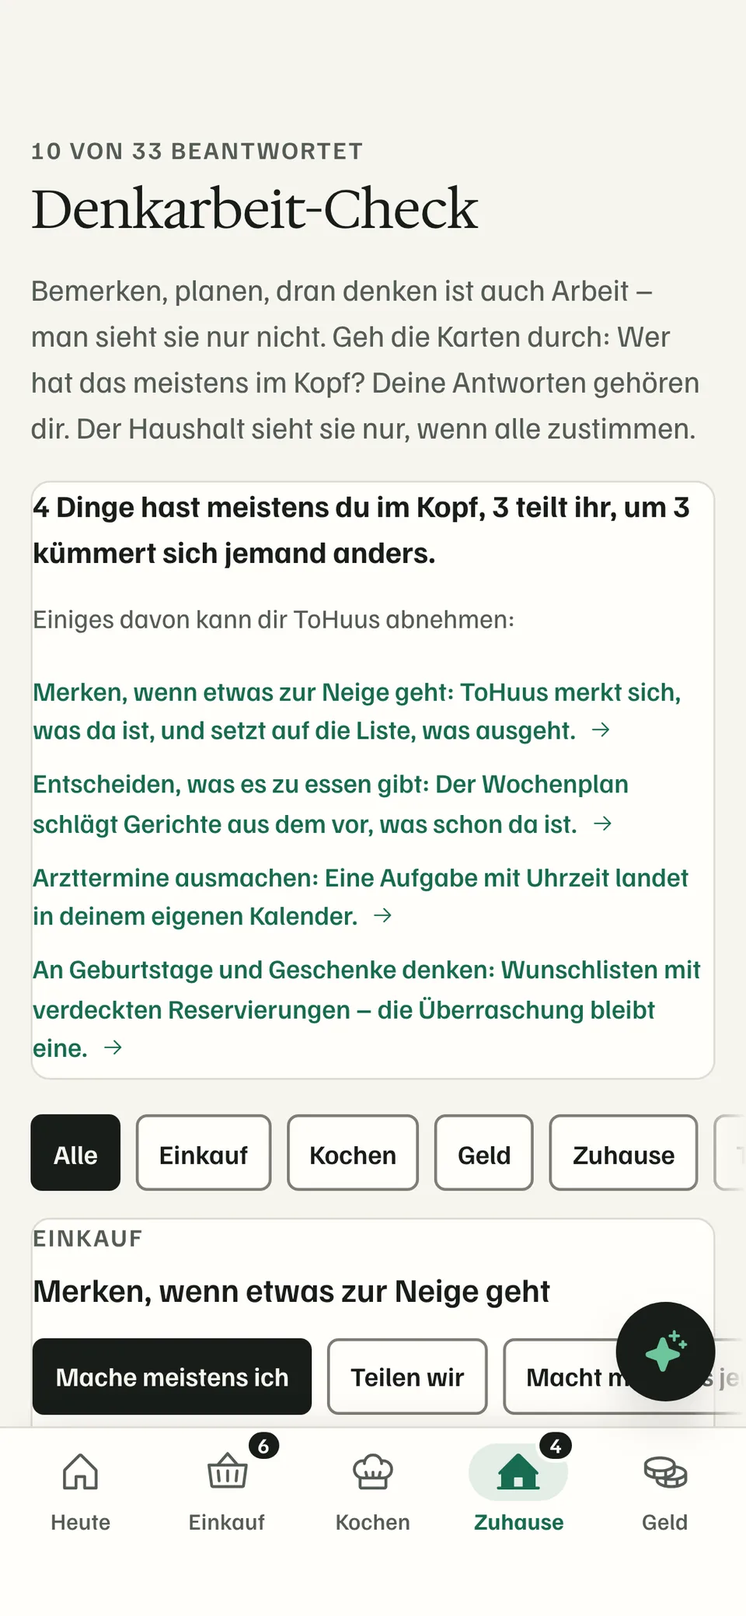
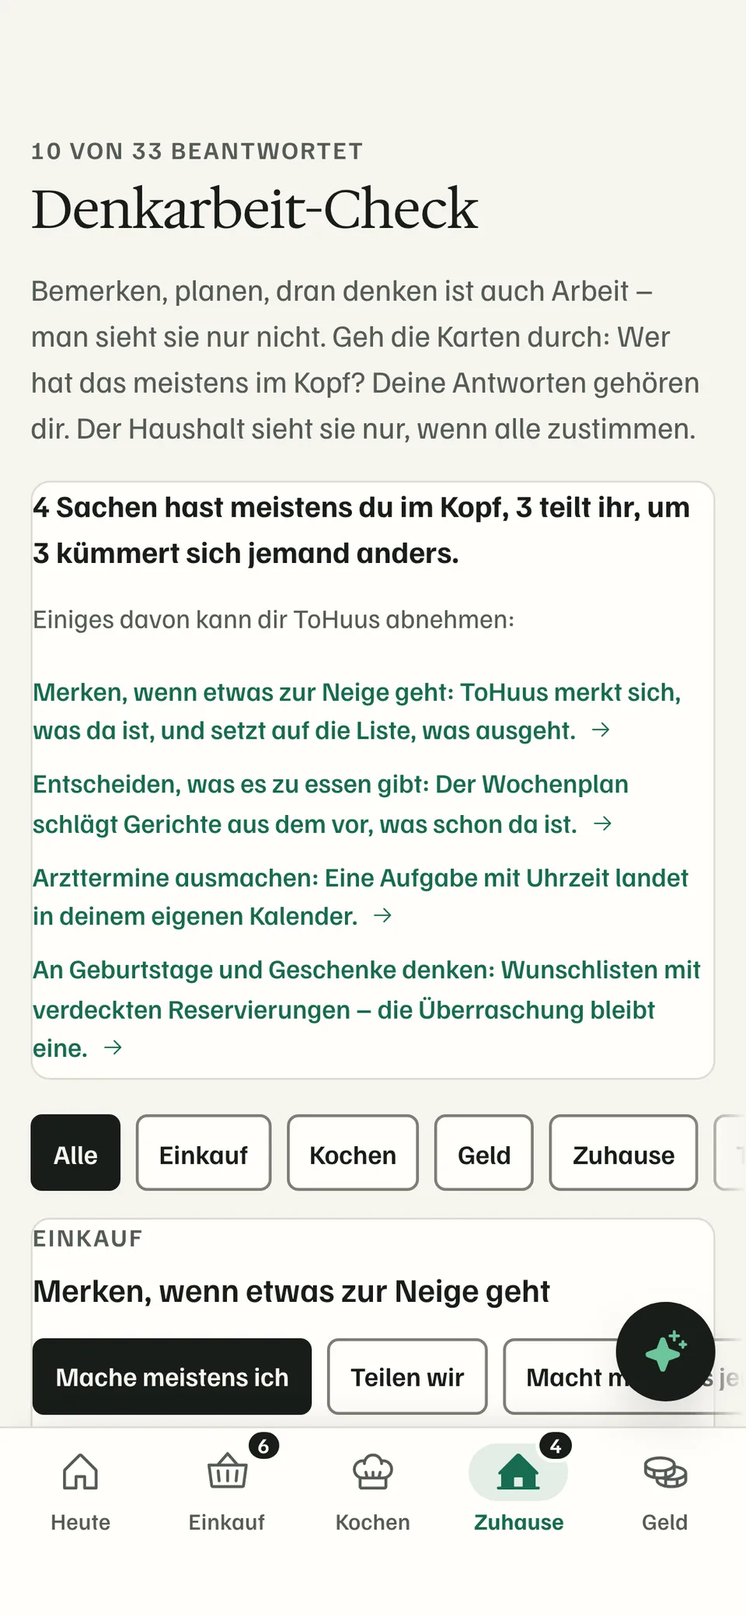
Copy: "Sache/Sachen" instead of "Ding/Dinge" everywhere (web, iOS, server, website, Ratgeber)
Countable things now read "1 Sache", "3 Sachen" – as "Bring mir was" already did.
Denkarbeit-Check screenshot re-taken; rule added to CLAUDE.md.

Claude-Session: https://claude.ai/code/session_01JiCpWFdknKAgdRL9Z1ENTb

Changed region(s): [[0.0312, 0.308, 0.9375, 0.3696]]

diff --git a/site/de/index.html b/site/de/index.html
@@ -214,7 +214,7 @@
         <p class="job-no"><span>3</span>Geld</p>
         <h3 id="geld-h">Ihr seht, wohin das Geld für Essen und Haushalt geht.</h3>
         <p>Jeder Bon zählt mit. ToHuus zeigt, was ein Monat gekostet hat, in welchem Laden und für welche Kategorie, und vergleicht mit dem Vormonat. Ein Haushaltsbuch müsst ihr dafür nicht führen.</p>
-        <ul class="ticks"><li><svg class="ico" aria-hidden="true" focusable="false"><use href="#i-check"/></svg><span>Ausgaben nach Monat, Laden und Kategorie</span></li><li><svg class="ico" aria-hidden="true" focusable="false"><use href="#i-check"/></svg><span>Preisänderungen bei Dingen, die ihr oft kauft</span></li><li><svg class="ico" aria-hidden="true" focusable="false"><use href="#i-check"/></svg><span>Budgets pro Woche, Monat oder Jahr, für alle oder nur für dich, mit Hinweis bei 80 Prozent</span></li><li><svg class="ico" aria-hidden="true" focusable="false"><use href="#i-check"/></svg><span>Export als CSV</span></li></ul>
+        <ul class="ticks"><li><svg class="ico" aria-hidden="true" focusable="false"><use href="#i-check"/></svg><span>Ausgaben nach Monat, Laden und Kategorie</span></li><li><svg class="ico" aria-hidden="true" focusable="false"><use href="#i-check"/></svg><span>Preisänderungen bei Sachen, die ihr oft kauft</span></li><li><svg class="ico" aria-hidden="true" focusable="false"><use href="#i-check"/></svg><span>Budgets pro Woche, Monat oder Jahr, für alle oder nur für dich, mit Hinweis bei 80 Prozent</span></li><li><svg class="ico" aria-hidden="true" focusable="false"><use href="#i-check"/></svg><span>Export als CSV</span></li></ul>
       </div>
       <div class="job-visual reveal">
         <span class="job-shape s3" aria-hidden="true"></span>
@@ -393,7 +393,7 @@
     <div class="sec-head">
       <p class="label reveal">Wenn der Kopf voll ist</p>
       <h2 class="reveal" id="nd-h">Für Köpfe, in denen viel los ist.</h2>
-      <p class="intro reveal">Mit ADHS, Autismus oder einfach in einer vollen Woche ist oft der Anfang das Schwerste: Wo fange ich an, was war noch mal dran, und wie lange dauert das überhaupt? Ein paar Dinge in ToHuus sind genau dafür gebaut. Sie helfen allen im Haushalt, und niemand muss erklären, warum.</p>
+      <p class="intro reveal">Mit ADHS, Autismus oder einfach in einer vollen Woche ist oft der Anfang das Schwerste: Wo fange ich an, was war noch mal dran, und wie lange dauert das überhaupt? Ein paar Sachen in ToHuus sind genau dafür gebaut. Sie helfen allen im Haushalt, und niemand muss erklären, warum.</p>
     </div>
     <figure class="house-visual nd-visual reveal">
       <div class="house-pair">
@@ -412,14 +412,14 @@
       <li class="reveal" style="--d:0ms"><span class="nd-ico"><svg class="ico" aria-hidden="true" focusable="false"><use href="#i-list"/></svg></span><b>Kleine Schritte</b><span>Jede Aufgabe lässt sich in kleine Schritte teilen, die du einzeln abhakst. „In kleine Schritte teilen“ schlägt welche vor: mit KI, wenn euer Haushalt das erlaubt, sonst aus fertigen Schritten für Bad putzen, Küche, Wäsche, Staubsaugen oder Bett beziehen. Ist die Aufgabe erledigt, stehen die Schritte beim nächsten Mal wieder offen da.</span></li>
       <li class="reveal" style="--d:50ms"><span class="nd-ico"><svg class="ico" aria-hidden="true" focusable="false"><use href="#i-target"/></svg></span><b>Eins nach dem anderen</b><span>Die Fokusansicht zeigt nur eine Sache: die nächste Aufgabe und darin den nächsten Schritt, groß und ohne Liste drumherum. Darunter stehen „Geschafft“, „Später“ und „Zu groß? Kleiner machen“.</span></li>
       <li class="reveal" style="--d:100ms"><span class="nd-ico"><svg class="ico" aria-hidden="true" focusable="false"><use href="#i-timer"/></svg></span><b>Sichtbarer Timer</b><span>Fünf Minuten, nur anfangen. Ein Ring zeigt, wie viel Zeit noch bleibt, am Ende kommt ein sanftes Signal. Gezählt oder ausgewertet wird dabei nichts.</span></li>
-      <li class="reveal" style="--d:150ms"><span class="nd-ico"><svg class="ico" aria-hidden="true" focusable="false"><use href="#i-feather"/></svg></span><b>Sanfter Modus</b><span>Eine Einstellung nur für dich: keine roten Warnungen und keine Zähler, was fällig ist, „wäre dran“. „Neu anfangen“ legt alles Überfällige auf einen frischen Start, ohne Vorwurf. Mitteilungen kommen gebündelt in einer Nachricht zu der Zeit, die du wählst, und auf Heute stehen höchstens drei Dinge.</span></li>
+      <li class="reveal" style="--d:150ms"><span class="nd-ico"><svg class="ico" aria-hidden="true" focusable="false"><use href="#i-feather"/></svg></span><b>Sanfter Modus</b><span>Eine Einstellung nur für dich: keine roten Warnungen und keine Zähler, was fällig ist, „wäre dran“. „Neu anfangen“ legt alles Überfällige auf einen frischen Start, ohne Vorwurf. Mitteilungen kommen gebündelt in einer Nachricht zu der Zeit, die du wählst, und auf Heute stehen höchstens drei Sachen.</span></li>
       <li class="reveal" style="--d:0ms"><span class="nd-ico"><svg class="ico" aria-hidden="true" focusable="false"><use href="#i-users"/></svg></span><b>Keine Punkte, keine Ranglisten</b><span>Es gibt keine Streaks, keine Punkte und keine Belohnungen. „Wer hat was im Blick“ zeigt Namen alphabetisch, Anteile nur, wenn alle im Haushalt zustimmen.</span></li>
       <li class="reveal" style="--d:50ms"><span class="nd-ico"><svg class="ico" aria-hidden="true" focusable="false"><use href="#i-list"/></svg></span><b>Denkarbeit-Check</b><span>33 Karten für die unsichtbare Arbeit, von „Merken, wenn etwas zur Neige geht“ bis „An Geburtstage denken“. Jede Person antwortet für sich, der Haushalt sieht die Antworten nur, wenn alle zustimmen. Zu jeder Karte steht, was ToHuus dir davon abnimmt.</span></li>
       <li class="reveal" style="--d:100ms"><span class="nd-ico"><svg class="ico" aria-hidden="true" focusable="false"><use href="#i-pin"/></svg></span><b>Aus den Augen, nicht aus dem Sinn</b><span>„Wo ist was?“ weiß, wo die Batterien liegen und was im Gefrierfach ist. Wer mag, führt einen Vorrat und sieht, was da ist und was bald alle ist.</span></li>
       <li class="reveal" style="--d:150ms"><span class="nd-ico"><svg class="ico" aria-hidden="true" focusable="false"><use href="#i-mic"/></svg></span><b>Schnell aus dem Kopf</b><span>Ein Tipp auf den Assistenten, ein Satz, und es steht auf der Liste oder bei den Aufgaben, bevor der Gedanke wieder weg ist.</span></li>
       <li class="reveal" style="--d:0ms"><span class="nd-ico"><svg class="ico" aria-hidden="true" focusable="false"><use href="#i-tag"/></svg></span><b>Extras im Wocheneinkauf</b><span>Ihr legt fest, wie viel pro Woche für Extras drin ist, als Betrag oder als Anzahl. Einträge auf der Liste markiert ihr als Extra, und die Liste zeigt, wie viel davon schon verplant ist. Gesperrt wird nichts, ihr behaltet nur den Überblick, auch bei spontanen Käufen.</span></li>
     </ul>
-    <p class="note reveal">ToHuus richtet sich nach „Bewegung reduzieren“ auf deinem Gerät, und an Tagen, an denen das Aufstehen schwerfällt, gibt es „Bring mir was“. ToHuus ist kein Gesundheits- oder Therapieangebot. Es nimmt euch nur ein paar Dinge aus dem Kopf.</p>
+    <p class="note reveal">ToHuus richtet sich nach „Bewegung reduzieren“ auf deinem Gerät, und an Tagen, an denen das Aufstehen schwerfällt, gibt es „Bring mir was“. ToHuus ist kein Gesundheits- oder Therapieangebot. Es nimmt euch nur ein paar Sachen aus dem Kopf.</p>
     <p class="more reveal"><a href="../hilfe/kopf-voll.html">Alles dazu in der Hilfe<svg class="ico" aria-hidden="true" focusable="false"><use href="#i-arrow"/></svg></a></p>
   </div>
 </section>

diff --git a/site/ratgeber/haushalt-mit-adhs.html b/site/ratgeber/haushalt-mit-adhs.html
@@ -112,11 +112,11 @@
     </section>
     <section id="ein-beispiel-sam-und-der-samstag" aria-labelledby="ein-beispiel-sam-und-der-samstag-h">
       <h2 id="ein-beispiel-sam-und-der-samstag-h">Ein Beispiel: Sam und der Samstag</h2>
-      <p>Sam fällt das Anfangen schwer, besonders bei großen Aufgaben. Samstags soll das Bad dran sein, und lange war das der Tag, an dem es nicht passierte. Jetzt hat Sam in ToHuus den sanften Modus an. Auf Heute stehen nur drei Dinge, und die Erinnerungen kommen gesammelt um zehn Uhr.</p><p>Um zehn öffnet Sam „Eins nach dem anderen“. Dort steht nur „Bad putzen“ und darunter der erste Schritt: „Spiegel abwischen“. Sam startet den Timer mit fünf Minuten. Danach tippt Sam auf „Geschafft“, der nächste Schritt ist das Waschbecken. Beim Boden ist die Luft raus, Sam tippt auf „Später“. Das Bad ist nicht perfekt, aber zu drei Vierteln sauber, und niemand im Haushalt sieht, dass Sam den sanften Modus nutzt.</p>
+      <p>Sam fällt das Anfangen schwer, besonders bei großen Aufgaben. Samstags soll das Bad dran sein, und lange war das der Tag, an dem es nicht passierte. Jetzt hat Sam in ToHuus den sanften Modus an. Auf Heute stehen nur drei Sachen, und die Erinnerungen kommen gesammelt um zehn Uhr.</p><p>Um zehn öffnet Sam „Eins nach dem anderen“. Dort steht nur „Bad putzen“ und darunter der erste Schritt: „Spiegel abwischen“. Sam startet den Timer mit fünf Minuten. Danach tippt Sam auf „Geschafft“, der nächste Schritt ist das Waschbecken. Beim Boden ist die Luft raus, Sam tippt auf „Später“. Das Bad ist nicht perfekt, aber zu drei Vierteln sauber, und niemand im Haushalt sieht, dass Sam den sanften Modus nutzt.</p>
     </section>
     <section id="so-hilft-tohuus-wenn-der-kopf-voll-ist" aria-labelledby="so-hilft-tohuus-wenn-der-kopf-voll-ist-h">
       <h2 id="so-hilft-tohuus-wenn-der-kopf-voll-ist-h">So hilft ToHuus, wenn der Kopf voll ist</h2>
-      <p>Unter Aufgaben gibt es dafür ein paar Werkzeuge, die allen im Haushalt offenstehen, ohne dass jemand erklären muss, warum er sie nutzt:</p><ul><li><b>Kleine Schritte</b>: Jede Aufgabe lässt sich in Schritte teilen. „In kleine Schritte teilen“ schlägt welche vor, mit KI, wenn euer Haushalt das erlaubt, sonst aus fertigen Schritten für häufige Aufgaben.</li><li><b>Eins nach dem anderen</b>: nur die nächste Aufgabe und darin der nächste Schritt, mit „Geschafft“, „Später“ und „Zu groß? Kleiner machen“.</li><li><b>Sichtbarer Timer</b>: 5, 10, 15 oder 25 Minuten, ein Ring und ein sanftes Signal am Ende. Gespeichert wird nichts.</li><li><b>Sanfter Modus</b>: kein Rot für Überfälliges, „wäre dran“ statt „überfällig“, wenige Dinge auf Heute, Erinnerungen gebündelt einmal am Tag.</li><li><b>Neu anfangen</b>: Überfälliges rückt auf einen frischen Start, zwei Aufgaben pro Tag. Nichts wird als verpasst festgehalten.</li></ul><p>Es gibt keine Streaks, keine Punkte und keine Statistik über dich. Deine Einstellungen sieht niemand sonst im Haushalt. ToHuus ist kein Gesundheits- oder Therapieangebot und ersetzt keine Beratung. Mehr dazu in der Hilfe unter <a href="../hilfe/kopf-voll.html">Wenn der Kopf voll ist</a>. ToHuus ist gerade in der Beta, einen TestFlight-Platz fragst du auf der <a href="../de/#testflight">Startseite</a> an.</p>
+      <p>Unter Aufgaben gibt es dafür ein paar Werkzeuge, die allen im Haushalt offenstehen, ohne dass jemand erklären muss, warum er sie nutzt:</p><ul><li><b>Kleine Schritte</b>: Jede Aufgabe lässt sich in Schritte teilen. „In kleine Schritte teilen“ schlägt welche vor, mit KI, wenn euer Haushalt das erlaubt, sonst aus fertigen Schritten für häufige Aufgaben.</li><li><b>Eins nach dem anderen</b>: nur die nächste Aufgabe und darin der nächste Schritt, mit „Geschafft“, „Später“ und „Zu groß? Kleiner machen“.</li><li><b>Sichtbarer Timer</b>: 5, 10, 15 oder 25 Minuten, ein Ring und ein sanftes Signal am Ende. Gespeichert wird nichts.</li><li><b>Sanfter Modus</b>: kein Rot für Überfälliges, „wäre dran“ statt „überfällig“, wenige Sachen auf Heute, Erinnerungen gebündelt einmal am Tag.</li><li><b>Neu anfangen</b>: Überfälliges rückt auf einen frischen Start, zwei Aufgaben pro Tag. Nichts wird als verpasst festgehalten.</li></ul><p>Es gibt keine Streaks, keine Punkte und keine Statistik über dich. Deine Einstellungen sieht niemand sonst im Haushalt. ToHuus ist kein Gesundheits- oder Therapieangebot und ersetzt keine Beratung. Mehr dazu in der Hilfe unter <a href="../hilfe/kopf-voll.html">Wenn der Kopf voll ist</a>. ToHuus ist gerade in der Beta, einen TestFlight-Platz fragst du auf der <a href="../de/#testflight">Startseite</a> an.</p>
     </section>
     <section id="fakten" aria-labelledby="fakten-h">
       <h2 id="fakten-h">Fakten zum Mitnehmen</h2>

diff --git a/site/ratgeber/mental-load-haushalt-fair-verteilen.html b/site/ratgeber/mental-load-haushalt-fair-verteilen.html
@@ -104,7 +104,7 @@
     </section>
     <section id="erst-sichtbar-machen-der-denkarbeit-check" aria-labelledby="erst-sichtbar-machen-der-denkarbeit-check-h">
       <h2 id="erst-sichtbar-machen-der-denkarbeit-check-h">Erst sichtbar machen: der Denkarbeit-Check</h2>
-      <p>Über Mental Load zu reden, ist schwer, solange er unsichtbar bleibt. Sätze wie „ich denke immer an alles“ klingen schnell nach Vorwurf, und „sag doch einfach, was ich machen soll“ verschiebt das Problem nur. Hilfreicher ist eine ruhige Bestandsaufnahme, Ding für Ding.</p><p>Genau dafür gibt es in ToHuus unter Aufgaben › Wer hat was im Blick den Denkarbeit-Check. Das sind 33 Karten in sieben Bereichen, von Einkauf und Kochen über Geld und Zuhause bis zu Terminen, Kindern und dem Miteinander. Auf jeder steht ein ganz konkretes Ding, etwa „Merken, wenn etwas zur Neige geht“, „Arzttermine ausmachen“, „Wasserfilter, Rauchmelder, Entkalken“ oder „Merken, wann Kleidung oder Schuhe zu klein sind“. Jede Person beantwortet jede Karte für sich, mit „Mache meistens ich“, „Teilen wir“, „Macht meistens jemand anders“ oder „Betrifft uns nicht“.</p><ul><li>Die Antworten gehören dir. Du siehst für dich, wie viele Dinge du meistens im Kopf hast, wie viele ihr teilt und um wie viele sich jemand anders kümmert.</li><li>Der Haushalt sieht die Antworten erst, wenn alle zugestimmt haben. Dann steht pro Karte, wer was gesagt hat, und ToHuus weist auf zwei Dinge hin: wo alle denken, jemand anders macht es, und wo zwei oder mehr „mache meistens ich“ sagen.</li><li>Jede Karte zeigt, wie ToHuus dir dieses Ding abnehmen kann. Aus einer Karte mit „Mache meistens ich“ wird auf Wunsch eine Aufgabe, die du im Blick hast.</li></ul><p>Es gibt keine Punkte, keine Rangliste und keine Prozentwerte pro Person. Oft ist schon das Durchgehen der Karten der wichtigste Teil. Viele merken erst dabei, wie viele kleine Dinge jemand im Kopf hat, und es wird leichter, darüber zu reden, ohne dass jemand angeklagt wird.</p>
+      <p>Über Mental Load zu reden, ist schwer, solange er unsichtbar bleibt. Sätze wie „ich denke immer an alles“ klingen schnell nach Vorwurf, und „sag doch einfach, was ich machen soll“ verschiebt das Problem nur. Hilfreicher ist eine ruhige Bestandsaufnahme, Punkt für Punkt.</p><p>Genau dafür gibt es in ToHuus unter Aufgaben › Wer hat was im Blick den Denkarbeit-Check. Das sind 33 Karten in sieben Bereichen, von Einkauf und Kochen über Geld und Zuhause bis zu Terminen, Kindern und dem Miteinander. Auf jeder steht eine ganz konkrete Sache, etwa „Merken, wenn etwas zur Neige geht“, „Arzttermine ausmachen“, „Wasserfilter, Rauchmelder, Entkalken“ oder „Merken, wann Kleidung oder Schuhe zu klein sind“. Jede Person beantwortet jede Karte für sich, mit „Mache meistens ich“, „Teilen wir“, „Macht meistens jemand anders“ oder „Betrifft uns nicht“.</p><ul><li>Die Antworten gehören dir. Du siehst für dich, wie viele Sachen du meistens im Kopf hast, wie viele ihr teilt und um wie viele sich jemand anders kümmert.</li><li>Der Haushalt sieht die Antworten erst, wenn alle zugestimmt haben. Dann steht pro Karte, wer was gesagt hat, und ToHuus weist auf zwei Dinge hin: wo alle denken, jemand anders macht es, und wo zwei oder mehr „mache meistens ich“ sagen.</li><li>Jede Karte zeigt, wie ToHuus dir diese Sache abnehmen kann. Aus einer Karte mit „Mache meistens ich“ wird auf Wunsch eine Aufgabe, die du im Blick hast.</li></ul><p>Es gibt keine Punkte, keine Rangliste und keine Prozentwerte pro Person. Oft ist schon das Durchgehen der Karten der wichtigste Teil. Viele merken erst dabei, wie viele kleine Dinge jemand im Kopf hat, und es wird leichter, darüber zu reden, ohne dass jemand angeklagt wird.</p>
     </section>
     <section id="so-verteilt-ihr-die-denkarbeit-fairer" aria-labelledby="so-verteilt-ihr-die-denkarbeit-fairer-h">
       <h2 id="so-verteilt-ihr-die-denkarbeit-fairer-h">So verteilt ihr die Denkarbeit fairer</h2>

diff --git a/web/src/locales/de/places.ts b/web/src/locales/de/places.ts
@@ -32,13 +32,13 @@ export const places: Record<string, string> = {
   'No places yet': 'Noch keine Orte',
   'That is fine – things you add without a place show up under “not assigned yet”. Add a place whenever it helps.':
     'Das ist in Ordnung – was ohne Ort dazukommt, steht unter „Noch keinem Ort zugewiesen“. Leg einen Ort an, sobald es hilft.',
-  'Things without a place': 'Dinge ohne Ort',
+  'Things without a place': 'Sachen ohne Ort',
   'belongs to {name}': 'gehört {name}',
-  'Things stored here': 'Dinge an diesem Ort',
+  'Things stored here': 'Sachen an diesem Ort',
   'Edit {name}': '{name} bearbeiten',
   '1 archived place': '1 archivierter Ort',
   '{n} archived places': '{n} archivierte Orte',
-  '{n} things are still stored here': 'Hier liegen noch {n} Dinge',
+  '{n} things are still stored here': 'Hier liegen noch {n} Sachen',
   'Bring back': 'Zurückholen',
   'New place, e.g. Jonas’ shelf, shared fridge': 'Neuer Ort, z. B. Fach von Jonas, WG-Kühlschrank',
   Inside: 'Liegt in',
@@ -65,7 +65,7 @@ export const places: Record<string, string> = {
     'Wählt nur, was ihr wirklich habt. Auch gar kein Ort ist in Ordnung – dann steht alles unter „Noch keinem Ort zugewiesen“.',
   'Places that still hold something stay – you can archive them later in Settings.': 'Orte, in denen noch etwas liegt, bleiben – ihr könnt sie später in den Einstellungen archivieren.',
   'No places – that’s fine': 'Keine Orte – passt',
-  'Where are your things kept?': 'Wo werden eure Dinge aufbewahrt?',
+  'Where are your things kept?': 'Wo bewahrt ihr eure Sachen auf?',
   'Optional: shelves, cupboards and devices inside your places – e.g. the fridge in the kitchenette or the chest freezer in the cellar.':
     'Optional: Regale, Schränke und Geräte in euren Orten – zum Beispiel der Kühlschrank in der Küchenzeile oder die Gefriertruhe im Keller.',
   'You have not picked any places – skip this step, or go back and pick some.': 'Ihr habt keine Orte gewählt – überspringt diesen Schritt oder geht zurück und wählt welche.',

diff --git a/web/src/locales/de/stock.ts b/web/src/locales/de/stock.ts
@@ -70,11 +70,11 @@ export const stock: Record<string, string> = {
   "Upload a REWE receipt, scan a barcode or add products by hand.": "Lade einen REWE-Bon hoch, scanne einen Barcode oder leg Produkte von Hand an.",
   "Some product images from Open Food Facts (CC BY-SA), data under ODbL.": "Produktbilder teils von Open Food Facts (CC BY-SA), Daten unter ODbL.",
   "out right now": "gerade alle",
-  "1 thing with an exact spot": "1 Ding mit genauem Platz",
-  "{n} things with an exact spot": "{n} Dinge mit genauem Platz",
+  "1 thing with an exact spot": "1 Sache mit genauem Platz",
+  "{n} things with an exact spot": "{n} Sachen mit genauem Platz",
   "Where is it?": "Wo ist was?",
   "Where can I find … packing tape, plasters, a torch": "Wo finde ich … Paketband, Pflaster, Taschenlampe",
-  "Set the exact spot on the item (“left shelf, top compartment”). Things you don’t count can live here too – thermometer, fuse box, spare keys.": "Den genauen Platz trägst du beim Artikel ein („Regal links, oberstes Fach“). Auch Dinge, die nicht gezählt werden, können hier stehen – Fieberthermometer, Sicherungskasten, Ersatzschlüssel.",
+  "Set the exact spot on the item (“left shelf, top compartment”). Things you don’t count can live here too – thermometer, fuse box, spare keys.": "Den genauen Platz trägst du beim Artikel ein („Regal links, oberstes Fach“). Auch Sachen, die nicht gezählt werden, können hier stehen – Fieberthermometer, Sicherungskasten, Ersatzschlüssel.",
   "“{q}” isn’t stored anywhere": "„{q}“ ist nirgends hinterlegt",
   "Nothing stored yet": "Noch nichts hinterlegt",
   "Add it as an item (counting: “Don’t count”) and enter the spot – or tell your AI assistant “The thermometer is in the bathroom mirror cabinet”.": "Leg es als Artikel an (Zählweise „gar nicht“) und trag den Platz ein – oder sag deinem KI-Assistenten „Das Fieberthermometer liegt im Bad, Spiegelschrank“.",

diff --git a/web/src/locales/de/order.ts b/web/src/locales/de/order.ts
@@ -109,7 +109,7 @@ export const order: Record<string, string> = {
   'Visitors, the babysitter or grandparents: Treats › Guests – a link with what they may ask for, chosen places read-only and a note.': 'Besuch, Babysitter oder Großeltern: Bring mir was › Gäste – ein Link mit dem, was sie sich wünschen dürfen, ausgewählten Orten zum Nachsehen und einer Notiz.',
   'Open guests': 'Gäste öffnen',
   'The menu: tea, ice cream, snacks': 'Die Karte: Tee, Eis, Snacks',
-  'Everything people can ask for lives in one menu – things from your stock and things that are simply there, like tap water or tea.': 'Alles, was man sich wünschen kann, steht auf einer Karte – Sachen aus dem Bestand und Dinge, die einfach da sind, wie Leitungswasser oder Tee.',
+  'Everything people can ask for lives in one menu – things from your stock and things that are simply there, like tap water or tea.': 'Alles, was man sich wünschen kann, steht auf einer Karte – Sachen aus dem Bestand und Sachen, die einfach da sind, wie Leitungswasser oder Tee.',
   'Treats › “Edit menu” (also in Settings › Household and in the party setup).': 'Bring mir was › „Karte bearbeiten“ (auch unter Einstellungen › Haushalt und beim Party-Start).',
   'Guests can ask for a drink or a snack from what is really there. Guest links work without an account.': 'Gäste können sich ein Getränk oder einen Snack wünschen – aus dem, was wirklich da ist. Gäste-Links funktionieren ohne Konto.',
   'Ask each other for a little something – tea with honey, the ice cream from the freezer – and someone at home brings it. Guests and parties work the same way.':

diff --git a/site/hilfe/kopf-voll.html b/site/hilfe/kopf-voll.html
@@ -107,7 +107,7 @@
     </section>
     <section id="sanfter-modus" aria-labelledby="sanfter-modus-h">
       <h2 id="sanfter-modus-h"><span class="legal-no">5</span>Sanfter Modus</h2>
-      <p>Eine persönliche Einstellung, die nur für dich gilt:</p><ul><li>Keine roten Warnungen für Überfälliges und keine Zähler. Was fällig ist, „wäre dran“.</li><li>„Neu anfangen“ legt alles Überfällige auf einen frischen Start, ohne schlechtes Gewissen.</li><li>Mitteilungen kommen gebündelt in einer Nachricht, zu der Uhrzeit, die du wählst.</li><li>Auf Heute stehen höchstens drei Dinge.</li></ul><p>Die anderen im Haushalt sehen nicht, ob du den sanften Modus eingeschaltet hast.</p>
+      <p>Eine persönliche Einstellung, die nur für dich gilt:</p><ul><li>Keine roten Warnungen für Überfälliges und keine Zähler. Was fällig ist, „wäre dran“.</li><li>„Neu anfangen“ legt alles Überfällige auf einen frischen Start, ohne schlechtes Gewissen.</li><li>Mitteilungen kommen gebündelt in einer Nachricht, zu der Uhrzeit, die du wählst.</li><li>Auf Heute stehen höchstens drei Sachen.</li></ul><p>Die anderen im Haushalt sehen nicht, ob du den sanften Modus eingeschaltet hast.</p>
     </section>
     <section id="extras-im-wocheneinkauf" aria-labelledby="extras-im-wocheneinkauf-h">
       <h2 id="extras-im-wocheneinkauf-h"><span class="legal-no">6</span>Extras im Wocheneinkauf</h2>

diff --git a/site/hilfe/aufgaben.html b/site/hilfe/aufgaben.html
@@ -93,7 +93,7 @@
   <div class="legal-body help-body">
     <section id="was-dazugehoert" aria-labelledby="was-dazugehoert-h">
       <h2 id="was-dazugehoert-h"><span class="legal-no">1</span>Was dazugehört</h2>
-      <p>Unter Zuhause › Aufgaben steht, was bei euch zu tun ist. <b>Haushalt</b> sind Dinge wie Bad putzen, Müll rausbringen oder Bettwäsche wechseln. <b>Pflege & Fristen</b> sind Wasserfilter, Rauchmelder, TÜV oder Ausweise. Oben filterst du nach Alle, Haushalt, Pflege & Fristen und Meine.</p><p>Für den Anfang gibt es Vorlagen für die üblichen Hausarbeiten. Auf „Heute“ zeigt eine Karte, was heute ansteht, und ein Tipp hakt es ab.</p>
+      <p>Unter Zuhause › Aufgaben steht, was bei euch zu tun ist. <b>Haushalt</b> sind Sachen wie Bad putzen, Müll rausbringen oder Bettwäsche wechseln. <b>Pflege & Fristen</b> sind Wasserfilter, Rauchmelder, TÜV oder Ausweise. Oben filterst du nach Alle, Haushalt, Pflege & Fristen und Meine.</p><p>Für den Anfang gibt es Vorlagen für die üblichen Hausarbeiten. Auf „Heute“ zeigt eine Karte, was heute ansteht, und ein Tipp hakt es ab.</p>
     </section>
     <section id="einmal-immer-wieder-oder-bei-bedarf" aria-labelledby="einmal-immer-wieder-oder-bei-bedarf-h">
       <h2 id="einmal-immer-wieder-oder-bei-bedarf-h"><span class="legal-no">2</span>Einmal, immer wieder oder bei Bedarf</h2>

diff --git a/web/src/locales/de/tasks.ts b/web/src/locales/de/tasks.ts
@@ -156,7 +156,7 @@ export const tasks: Record<string, string> = {
   "Saved as a task you keep in mind.": "Als Aufgabe gespeichert, die du im Blick hast.",
   "{n} of {total} answered": "{n} von {total} beantwortet",
   "Noticing, planning and remembering is work too – it just doesn’t show. Go through the cards: who usually keeps this in mind? Your answers are yours. The household sees them only when everyone agrees.": "Bemerken, planen, dran denken ist auch Arbeit – man sieht sie nur nicht. Geh die Karten durch: Wer hat das meistens im Kopf? Deine Antworten gehören dir. Der Haushalt sieht sie nur, wenn alle zustimmen.",
-  "You keep {me} things mostly in mind yourself, you share {shared}, someone else takes care of {other}.": "{me} Dinge hast meistens du im Kopf, {shared} teilt ihr, um {other} kümmert sich jemand anders.",
+  "You keep {me} things mostly in mind yourself, you share {shared}, someone else takes care of {other}.": "{me} Sachen hast meistens du im Kopf, {shared} teilt ihr, um {other} kümmert sich jemand anders.",
   "ToHuus can take some of it off your head:": "Einiges davon kann dir ToHuus abnehmen:",
   "Worth a chat": "Darüber lohnt sich ein Gespräch",
   "everyone thinks someone else does it": "alle denken, jemand anders macht es",

diff --git a/web/src/locales/de/kids.ts b/web/src/locales/de/kids.ts
@@ -107,9 +107,9 @@ export const kids: Record<string, string> = {
   "Open wishes at the same time": "Offene Wünsche gleichzeitig",
   "More wishes only after a grown-up answered.": "Weitere Wünsche erst, wenn ein Erwachsener geantwortet hat.",
   "Where is …? for {name}": "Wo ist …? für {name}",
-  "Things ({n}/12)": "Dinge ({n}/12)",
+  "Things ({n}/12)": "Sachen ({n}/12)",
   "Add": "Hinzufügen",
-  "A few things {name} may fetch alone – plasters, toothpaste, a cup. Off by default.": "Ein paar Dinge, die {name} allein holen darf – Pflaster, Zahnpasta, ein Becher. Standardmäßig aus.",
+  "A few things {name} may fetch alone – plasters, toothpaste, a cup. Off by default.": "Ein paar Sachen, die {name} allein holen darf – Pflaster, Zahnpasta, ein Becher. Standardmäßig aus.",
   "Nothing chosen – the tablet shows no “Where is …?”.": "Nichts ausgewählt – das Tablet zeigt kein „Wo ist …?“.",
   "Photos of places": "Fotos von Orten",
   "A photo of the cupboard says more than “bathroom, mirror cabinet” – for kids and babysitters.": "Ein Foto vom Schrank sagt mehr als „Bad, Spiegelschrank“ – für Kinder und Babysitter.",

diff --git a/web/src/locales/de/share.ts b/web/src/locales/de/share.ts
@@ -69,7 +69,7 @@ export const share: Record<string, string> = {
     'Installiere die App (Browsermenü → „Zum Startbildschirm“ oder „Installieren“). Danach steht {app} im Teilen-Menü jeder App.',
   'iPhone and iPad': 'iPhone und iPad',
   'iOS doesn’t offer the share menu to web apps. A shortcut with your personal key does the job – it can only put things on the shopping list.':
-    'iOS bietet Web-Apps das Teilen-Menü nicht an. Ein Kurzbefehl mit deinem persönlichen Schlüssel übernimmt das – er kann nur Dinge auf die Einkaufsliste setzen.',
+    'iOS bietet Web-Apps das Teilen-Menü nicht an. Ein Kurzbefehl mit deinem persönlichen Schlüssel übernimmt das – er kann nur Sachen auf die Einkaufsliste setzen.',
   'Your key (shown only once)': 'Dein Schlüssel (wird nur einmal angezeigt)',
   'Open the Shortcuts app → “+” → name it “To the list”.': 'Öffne die App Kurzbefehle → „+“ → nenn ihn „Auf die Liste“.',
   'Tap the “i” (details) → turn on “Show in Share Sheet”, accept Text and URLs.': 'Tipp auf das „i“ (Details) → „Im Share-Sheet anzeigen“ einschalten, Text und URLs annehmen.',

diff --git a/server/locales/de-home.ts b/server/locales/de-home.ts
@@ -139,7 +139,7 @@ export const de_home: Record<string, string> = {
   "Water filter, smoke alarms, descaling": "Wasserfilter, Rauchmelder, Entkalken",
   "Care tasks come with sensible intervals and a reminder.": "Pflege-Aufgaben kommen mit sinnvollen Abständen und Erinnerung.",
   "Knowing where things are": "Wissen, wo was liegt",
-  "“Where is what?” finds things by place – for everyone, not only the one who put them away.": "„Wo ist was?“ findet Dinge nach Ort – für alle, nicht nur für die Person, die sie weggeräumt hat.",
+  "“Where is what?” finds things by place – for everyone, not only the one who put them away.": "„Wo ist was?“ findet Sachen nach Ort – für alle, nicht nur für die Person, die sie weggeräumt hat.",
   "Keeping the laundry going": "Die Wäsche am Laufen halten",
   "Split it into small steps, with a timer if that helps.": "In kleine Schritte teilen, mit Timer, wenn das hilft.",
   "Looking after plants and pets": "Pflanzen und Haustiere versorgen",
